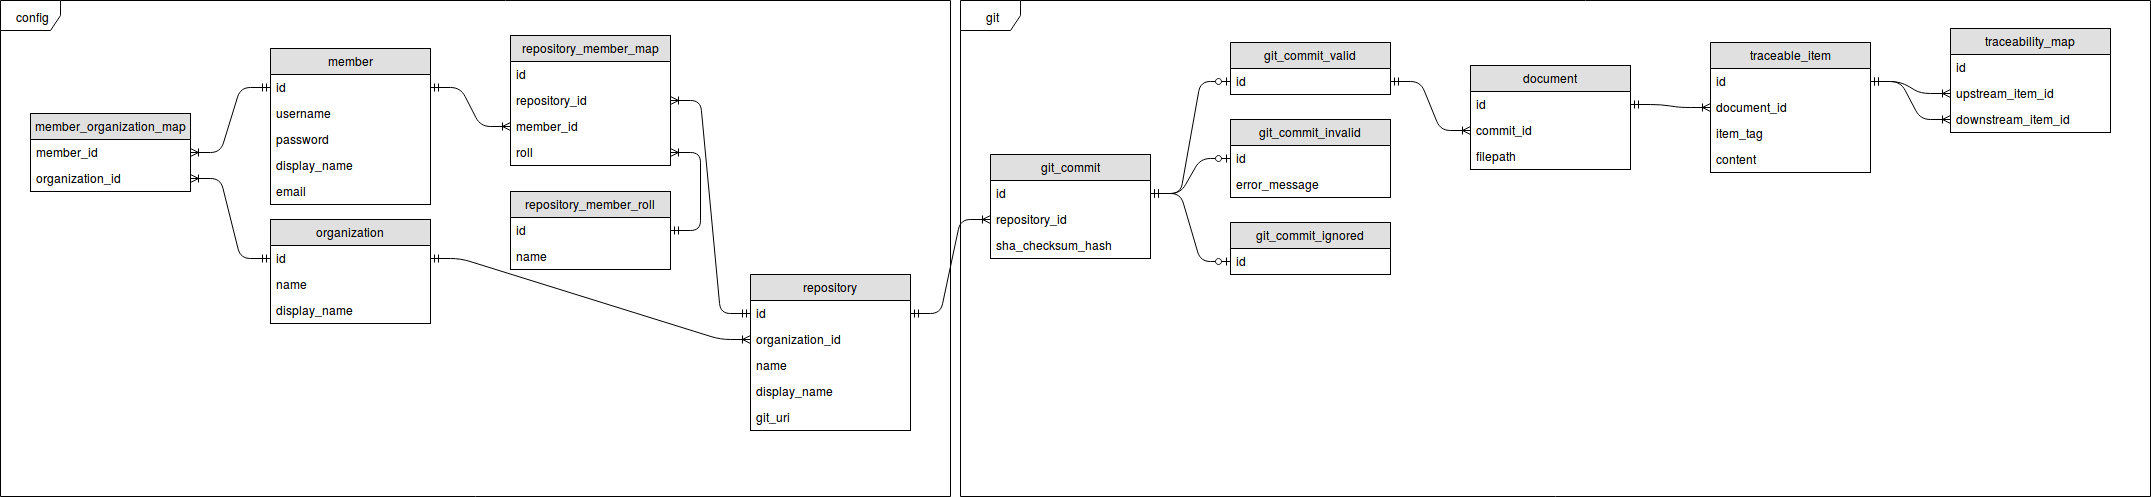
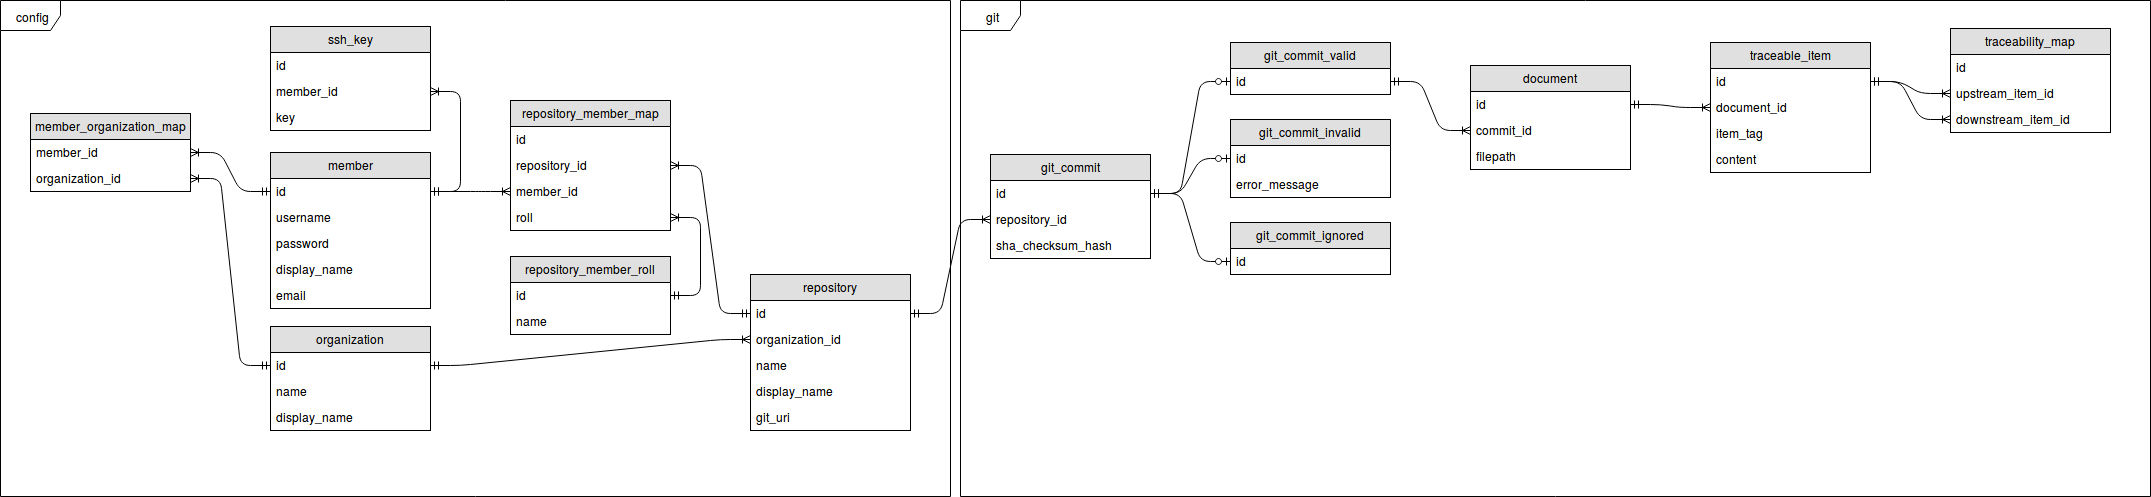
SSH key also write to desired folder

diff --git a/protease/src/test/java/enterovirus/protease/database/SshKeyRepositoryTest.java b/protease/src/test/java/enterovirus/protease/database/SshKeyRepositoryTest.java
@@ -1,0 +1,44 @@
+package enterovirus.protease.database;
+
+import java.io.IOException;
+
+import org.junit.Ignore;
+import org.junit.Test;
+import org.junit.runner.RunWith;
+import org.springframework.beans.factory.annotation.Autowired;
+import org.springframework.test.context.ActiveProfiles;
+import org.springframework.test.context.ContextConfiguration;
+import org.springframework.test.context.junit4.SpringJUnit4ClassRunner;
+
+import enterovirus.protease.*;
+import enterovirus.protease.domain.*;
+
+@RunWith(SpringJUnit4ClassRunner.class)
+@ActiveProfiles(profiles = "user_auth")
+@ContextConfiguration(classes=ProteaseConfig.class)
+public class SshKeyRepositoryTest {
+
+	@Autowired MemberRepository memberRepository;
+	@Autowired SshKeyRepository sshKeyRepository;
+	
+	/*
+	 * Ignored, because otherwise the database complains error:
+	 * > ERROR: duplicate key value violates unique constraint "ssh_key_key_key"
+	 */
+	@Ignore
+	public void test() throws IOException {
+		
+		MemberBean member = memberRepository.findById(1).get();
+		
+		SshKeyBean sshKey = new SshKeyBean();
+		sshKey.setMember(member);
+		sshKey.setKey("a-very-long-secret-key");
+		
+		sshKeyRepository.saveAndFlush(sshKey);
+	}
+	
+	@Test
+	public void testDummy () {
+		
+	}
+}

diff --git a/protease/src/main/java/enterovirus/protease/database/SshKeyImpl.java b/protease/src/main/java/enterovirus/protease/database/SshKeyImpl.java
@@ -1,0 +1,39 @@
+package enterovirus.protease.database;
+
+import java.io.BufferedWriter;
+import java.io.File;
+import java.io.FileWriter;
+import java.io.IOException;
+
+import org.springframework.beans.factory.annotation.Autowired;
+import org.springframework.stereotype.Repository;
+
+import enterovirus.protease.domain.*;
+import enterovirus.protease.source.SshSource;
+
+@Repository
+class SshKeyImpl implements SshKeyRepository {
+
+	@Autowired private SshKeyDatabaseRepository sshKeyDbRepository;
+	@Autowired private SshSource sshSource;
+	
+	public SshKeyBean saveAndFlush(SshKeyBean sshKey) throws IOException {
+
+		sshKeyDbRepository.saveAndFlush(sshKey);
+		/*
+		 * TODO:
+		 * If write to the database is not successful.
+		 */
+		
+		File authorizedKeys = sshSource.getAuthorizedKeysFilepath();
+		
+		try (BufferedWriter bw = new BufferedWriter(new FileWriter(authorizedKeys, true))) {
+		
+			bw.write(sshKey.getKey());
+			bw.newLine();
+			bw.newLine();
+		}
+		
+		return sshKey;
+	}
+}

diff --git a/protease/src/main/java/enterovirus/protease/source/GitSource.java b/protease/src/main/java/enterovirus/protease/source/GitSource.java
@@ -1,7 +1,12 @@
-package enterovirus.gitar;
+package enterovirus.protease.source;
 
 import java.io.File;
 
+import lombok.Getter;
+import lombok.Setter;
+
+@Getter
+@Setter
 public class GitSource {
 
 	/*
@@ -10,16 +15,7 @@ public class GitSource {
 	 * in JDBC. Will think carefully how to implement it
 	 * later.
 	 */
-	
 	private String rootFolderPath;
-
-	public void setRootFolderPath(String rootFolderPath) {
-		this.rootFolderPath = rootFolderPath;
-	}
-	
-	public String getRootFolderPath() {
-		return rootFolderPath;
-	}
 
 	/*
 	 * Bare git repository at "/rootFolderPath/ownerName/repositoryName.git" .

diff --git a/capsid/src/main/java/enterovirus/capsid/web/GitNavigationController.java b/capsid/src/main/java/enterovirus/capsid/web/GitNavigationController.java
@@ -22,10 +22,10 @@ import org.springframework.web.servlet.HandlerMapping;
 import enterovirus.enzymark.htmlgenerator.DesignDocumentHtmlGenerator;
 import enterovirus.enzymark.propertiesfile.PropertiesFileFormatException;
 import enterovirus.enzymark.propertiesfile.PropertiesFileParser;
-import enterovirus.gitar.GitSource;
 import enterovirus.gitar.wrap.*;
 import enterovirus.protease.database.*;
 import enterovirus.protease.domain.*;
+import enterovirus.protease.source.GitSource;
 
 @Controller
 public class GitNavigationController {	

diff --git a/protease/src/test/java/enterovirus/protease/config/TestSshConfig.java b/protease/src/test/java/enterovirus/protease/config/TestSshConfig.java
@@ -1,0 +1,20 @@
+package enterovirus.protease.config;
+
+import org.springframework.context.annotation.Bean;
+import org.springframework.context.annotation.Configuration;
+import org.springframework.context.annotation.Profile;
+
+import enterovirus.protease.source.GitSource;
+import enterovirus.protease.source.SshSource;
+
+@Configuration
+public class TestSshConfig {
+	
+	@Bean
+	public SshSource sshGitSource() {
+		
+		SshSource sshSource = new SshSource();
+		sshSource.setSshFolderPath("/home/git/.ssh");
+		return sshSource;
+	}
+}

diff --git a/capsid/src/main/java/enterovirus/capsid/config/SshConfig.java b/capsid/src/main/java/enterovirus/capsid/config/SshConfig.java
@@ -1,0 +1,20 @@
+package enterovirus.capsid.config;
+
+import org.springframework.context.annotation.Bean;
+import org.springframework.context.annotation.Configuration;
+import org.springframework.context.annotation.Profile;
+
+import enterovirus.protease.source.GitSource;
+import enterovirus.protease.source.SshSource;
+
+@Configuration
+public class SshConfig {
+	
+	@Bean
+	public SshSource sshGitSource() {
+		
+		SshSource sshSource = new SshSource();
+		sshSource.setSshFolderPath("/home/git/.ssh");
+		return sshSource;
+	}
+}

diff --git a/protease/src/main/java/enterovirus/protease/database/RepositoryGitDAO.java b/protease/src/main/java/enterovirus/protease/database/RepositoryGitDAO.java
@@ -14,12 +14,12 @@ import org.springframework.stereotype.Component;
 
 import enterovirus.gitar.GitBranch;
 import enterovirus.gitar.GitLog;
-import enterovirus.gitar.GitSource;
 import enterovirus.gitar.wrap.BranchName;
 import enterovirus.gitar.wrap.CommitInfo;
 import enterovirus.gitar.wrap.CommitSha;
 import enterovirus.protease.domain.CommitBean;
 import enterovirus.protease.domain.RepositoryBean;
+import enterovirus.protease.source.GitSource;
 
 /*
  * Functions of this class is not merged into RepositoryRepository,

diff --git a/protease/src/main/java/enterovirus/protease/source/SshSource.java b/protease/src/main/java/enterovirus/protease/source/SshSource.java
@@ -1,0 +1,24 @@
+package enterovirus.protease.source;
+
+import java.io.File;
+
+import lombok.Getter;
+import lombok.Setter;
+
+@Getter
+@Setter
+public class SshSource {
+
+	/*
+	 * This class is similar to javax.sql.DataSource
+	 * (or org.springframework.jdbc.datasource.DriverManagerDataSource)
+	 * in JDBC. Will think carefully how to implement it
+	 * later.
+	 */
+	
+	private String sshFolderPath;
+	
+	public File getAuthorizedKeysFilepath () {
+		return new File(new File(sshFolderPath), "authorized_keys");
+	}
+}

diff --git a/protease/src/main/java/enterovirus/protease/database/SshKeyRepository.java b/protease/src/main/java/enterovirus/protease/database/SshKeyRepository.java
@@ -1,10 +1,10 @@
 package enterovirus.protease.database;
 
-import org.springframework.data.repository.PagingAndSortingRepository;
+import java.io.IOException;
 
 import enterovirus.protease.domain.*;
 
-public interface SshKeyRepository extends PagingAndSortingRepository<SshKeyBean, Integer> {
+public interface SshKeyRepository {
 
-	SshKeyBean saveAndFlush(SshKeyBean sshKey);
+	public SshKeyBean saveAndFlush(SshKeyBean sshKey) throws IOException;
 }

diff --git a/capsid/src/main/java/enterovirus/capsid/web/SettingsController.java b/capsid/src/main/java/enterovirus/capsid/web/SettingsController.java
@@ -134,7 +134,7 @@ public class SettingsController {
 	
 	@RequestMapping(value="/ssh", method=RequestMethod.POST)
 	public String processAddASshKey (@Valid SshKeyBean sshKey, Errors errors, 
-			Model model, Authentication authentication) {
+			Model model, Authentication authentication) throws Exception {
 		
 		if (errors.hasErrors()) {
 			/* So <sf:> will render the values in object "member" to the form. */

diff --git a/protease/src/main/java/enterovirus/protease/database/BlobGitDAO.java b/protease/src/main/java/enterovirus/protease/database/BlobGitDAO.java
@@ -7,10 +7,10 @@ import org.springframework.beans.factory.annotation.Autowired;
 import org.springframework.stereotype.Component;
 
 import enterovirus.gitar.GitBlob;
-import enterovirus.gitar.GitSource;
 import enterovirus.gitar.wrap.BranchName;
 import enterovirus.gitar.wrap.CommitSha;
 import enterovirus.protease.domain.*;
+import enterovirus.protease.source.GitSource;
 
 @Component
 public class BlobGitDAO {

diff --git a/protease/src/main/java/enterovirus/protease/database/CommitGitDAO.java b/protease/src/main/java/enterovirus/protease/database/CommitGitDAO.java
@@ -7,9 +7,9 @@ import org.springframework.beans.factory.annotation.Autowired;
 import org.springframework.stereotype.Component;
 
 import enterovirus.gitar.GitFolderStructure;
-import enterovirus.gitar.GitSource;
 import enterovirus.gitar.wrap.CommitSha;
 import enterovirus.protease.domain.*;
+import enterovirus.protease.source.GitSource;
 
 @Component
 public class CommitGitDAO {
